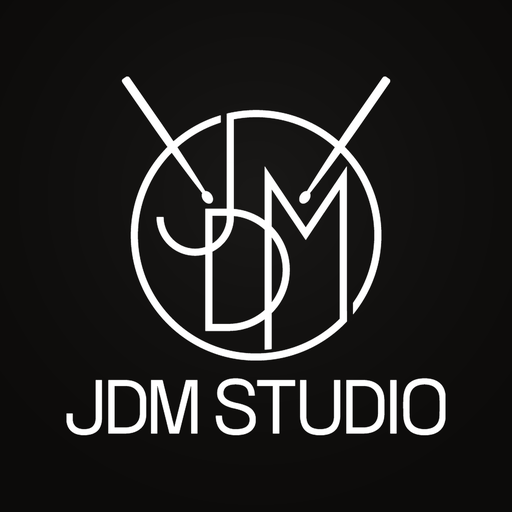
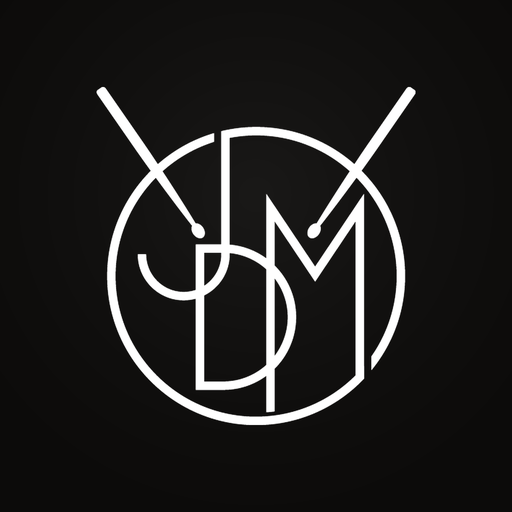
2.53.0: 문양만 있는 로고, 영상 연결 표시, 악보 템포를 처음부터 적용, 맞추기 안내 단순화, 맞추기 중 영상이 위에 보이게
Claude-Session: https://claude.ai/code/session_01UTjdMKt4mmKY2ZrPRwQn6L

Changed region(s): [[0.125, 0.1562, 0.875, 0.875]]

diff --git a/index.html b/index.html
@@ -694,6 +694,14 @@ button{touch-action:manipulation}
 .tf-hit{background:linear-gradient(180deg,#e7bb63,#c8932f);color:#24190a;box-shadow:inset 0 1px 0 rgba(255,255,255,.45)}.tf-hit:active,.tf-hit.hit{filter:brightness(.92)}
 .pgpanel{border-radius:12px}.libitem{border-radius:10px}.libitem:hover{border-color:rgba(217,166,72,.6)}
 .libfolders .fchip.on{color:var(--brass);border-color:rgba(217,166,72,.6);background:var(--brass-soft)}
+/* first screen: only the drawing of the logo */
+body .wbrand2 .lgr,body .wbrand2 .lgw{display:none!important}
+#wYt.linked{border-color:rgba(214,170,84,.55)!important}#wYt.linked small{display:block!important;color:#cbbd9f;font-size:12.5px;margin-top:3px}#wYt.linked small{overflow:hidden;text-overflow:ellipsis;white-space:nowrap;max-width:40vw}#wYt.linked b{color:var(--gold,#d6aa54)}
+@keyframes nextgo{0%,100%{box-shadow:0 0 0 0 rgba(214,170,84,.55)}50%{box-shadow:0 0 0 10px rgba(214,170,84,0)}}
+#wOpen.nextgo{animation:nextgo 1.6s ease-in-out infinite}
+@media (max-width:900px){body:has(#welcome:not([hidden])) #ytBox{visibility:hidden!important;pointer-events:none!important}}
+/* while matching on a phone the video sits on top, where its ad can be skipped */
+@media (max-width:900px){body.pinning #ytBox{position:fixed!important;top:66px!important;right:8px!important;left:auto!important;bottom:auto!important;width:56vw!important;max-width:340px;z-index:70!important;visibility:visible!important;box-shadow:0 10px 30px rgba(0,0,0,.6)}}
 /* back to the first screen */
 .backb{flex:none;display:grid;place-items:center;width:40px;height:40px;margin:0 2px 0 -6px;border:0;border-radius:12px;background:transparent;color:var(--ink,#eee);cursor:pointer}
 .backb:hover{background:rgba(255,255,255,.07)}.backb[hidden]{display:none!important}
@@ -2190,7 +2198,7 @@ function updateTitles(){
   $('srcLine').textContent=`${kind} · ${S.pages.length}쪽 · ${S.measures.length}마디`+(S.scoreBpm?` · ♩=${S.scoreBpm}`:'')+src;
 }
 function paintRange(el){const mn=+el.min||0,mx=+el.max||100;el.style.setProperty('--p',((+el.value-mn)/(mx-mn)*100)+'%')}
-function afterLoad(){
+function afterLoad(){if(S.scoreBpm>0&&!P.synced&&!libOpening)try{setBpm(S.scoreBpm,true)}catch(e){}
   // the cursor enters a line at its first note, not at the clef and time signature in front of it
   if(S.kind!=='xml'&&S.systems&&S.systems.length){const firsts=S.systems.map(q=>S.measures[(q.measures||[])[0]]).filter(Boolean);
     // (the clef takes the same room on every line: where a line's first mark was read further in than that, it was not the first note)
@@ -2909,7 +2917,7 @@ async function loadYouTube(url){
     songKey='y:'+(yt.id||'');applySong();
     yt.justAt=performance.now();
     if(loadSync()){follow.start();if(!desktop)toast('영상을 열었어요 ✓  저장해 둔 맞춤도 불러왔어요',3200)}
-    else if(!desktop&&!(S.tl&&S.tl.length))toast('영상을 열었어요 ✓  이제 악보를 열어 주세요',4000)
+    else if(!(S.tl&&S.tl.length)){toast('영상을 연결했어요 ✓',1800);wYtLinked()}
     else if(window.jdm&&window.jdm.ytRecStart){toast('유튜브를 불러왔어요. 템포와 첫 박을 자동으로 찾을게요.',3000);setTimeout(autoSync,300)}
     else if(!desktop){$('drawer').hidden=true;document.body.classList.remove('mixopen');showSyncAsk('tap')}
     else{openSync();toast('유튜브를 불러왔어요. 첫 박을 탭으로 맞춰 주세요.',3800)}};
@@ -2958,7 +2966,11 @@ function goHome(){dropSong();
   for(const id of ['colL','colR']){const c=$(id);if(c)c.innerHTML=''}try{clearLoop()}catch(e){}
   $('songName').textContent='JDM 악보 플레이어';$('srcLine').textContent='악보를 열어 주세요';
   $('welcome').hidden=false;$('backBtn').hidden=true;clearTimeout(toast._t);$('toast').hidden=true;try{wRecent()}catch(e){}try{updatePagesBtn()}catch(e){}window.scrollTo(0,0)}
-function dropYouTube(){follow.stop();if(M.type==='yt'&&yt.ready){try{yt.player.stopVideo()}catch(e){}}
+/* first screen: the YouTube card shows the linked song, and "악보 열기" is the next thing to press */
+function wYtLinked(){const w=$('wYt');if(!w)return;if(!w.dataset.b){w.dataset.b=w.querySelector('b').textContent;w.dataset.s=w.querySelector('small').textContent}
+  w.classList.add('linked');w.querySelector('b').textContent='✓ 영상 연결됨';w.querySelector('small').textContent=$('ytTitle').textContent||'';$('wOpen').classList.add('nextgo')}
+function wYtReset(){const w=$('wYt');if(!w||!w.dataset.b)return;w.classList.remove('linked');w.querySelector('b').textContent=w.dataset.b;w.querySelector('small').textContent=w.dataset.s;$('wOpen').classList.remove('nextgo')}
+function dropYouTube(){wYtReset();follow.stop();if(M.type==='yt'&&yt.ready){try{yt.player.stopVideo()}catch(e){}}
   if(yt.player instanceof DesktopYT){yt.player.destroy();yt.player=null;yt.ready=false}
   $('ytBox').hidden=true;$('ytBtn').classList.remove('on');if(M.type==='yt')M.type='none'}
 let wl=null;async function wake(on){try{if(on&&'wakeLock'in navigator)wl=await navigator.wakeLock.request('screen');else if(wl){wl.release();wl=null}}catch(e){}}
@@ -3566,9 +3578,10 @@ function pinUI(){if(!pin)return;const n=pin.pts.length,last=n?pin.pts[n-1]:null;
   const bpmNow=pin.tapBpm||S.scoreBpm||0;
   // two separate jobs, named apart: 1 the song's tempo (how fast), 2 the place in the score (where)
   if(pin.tapping){$('pbTap').textContent=pin.taps.length?('두드리기  '+pin.taps.length+' / '+PIN_TAPS):'여기를 두드리기';
-    $('pbK').textContent='1단계 · 곡의 템포 맞추기';$('pbT').textContent='노래 박자에 맞춰 버튼을 8번 두드리세요';$('pbS').textContent='발로 박자 세듯이 일정하게 두드려요. 드럼이 늦게 나오면 아래 줄을 밀어 건너뛰세요.';$('pinBar').hidden=false;return}
-  if(!n){$('pbK').textContent='2단계 · 악보 위치 맞추기'+(bpmNow?'   (템포 ♩='+bpmNow+')':'');t='지금 노래에 나오는 마디를 악보에서 누르세요';u='그 마디가 시작될 때 눌러요. 드럼이 나올 때까지 기다리지 말고 아래 줄을 밀어 건너뛰세요.'}
-  else{$('pbK').textContent='맞춤 완료 · 템포 ♩='+P.bpm;t='악보가 노래를 따라가요';u='노래 뒤쪽에서 지금 나오는 마디를 한 번 더 누르세요. 템포까지 알아서 맞춰져요.'}
+    $('pbK').textContent='템포 두드리기';$('pbT').textContent='노래 박자에 맞춰 버튼을 8번 두드리세요';$('pbS').textContent='발로 박자 세듯이 일정하게 두드려요. 드럼이 늦게 나오면 아래 줄을 밀어 건너뛰세요.';$('pinBar').hidden=false;return}
+  const src=pin.tapBpm&&pin.tapBpm!==S.scoreBpm?'두드린 템포':S.scoreBpm?'악보에 적힌 템포':'템포';
+  if(!n){$('pbK').textContent='마디 누르기'+(bpmNow?' · '+src+' ♩='+bpmNow:'');t='지금 나오는 마디를 악보에서 누르세요';u='광고는 위 영상에서 건너뛰세요. 드럼이 늦게 나오면 아래 줄을 밀어 넘겨요.'}
+  else{$('pbK').textContent='맞췄어요 ✓ · 템포 ♩='+P.bpm;t='악보가 노래를 따라가요';u='1분쯤 뒤에 그때 나오는 마디를 한 번 더 누르면 더 정확해져요. 다 됐으면 완료.'}
   $('pbT').textContent=t;$('pbS').textContent=u;$('pinBar').hidden=false}
 function pinAt(mi){const t=M.time()-0.03,T=S.tl;let ti=-1;
   // (a bar that is played more than once: the pass nearest to where the song is thought to be; at first, the first pass)
@@ -3958,10 +3971,11 @@ document.getElementById('pbDn').onclick=()=>pinNudge(-1);document.getElementById
 document.getElementById('pbRetap').onclick=()=>{if(pin){pin.tapping=true;pin.taps=[];pinUI()}};
 function isPhoneUI(){return matchMedia('(max-width:900px),(orientation:landscape) and (max-height:500px)').matches}
 function openTapCoach(){if(!(S.scoreBpm>0))try{const A=autoTempo();if(A&&A.p)A.p.then(()=>{if(autoT===A&&pin)pinUI()})}catch(e){}
-  openCoach({kick:(yt.justAt&&performance.now()-yt.justAt<2500)?'영상을 열었어요 ✓  이제 악보와 맞춰요':'노래와 악보 맞추기',title:'세 가지만 하면 돼요',go:'시작하기',later:'나중에',
-  steps:[['곡의 템포 맞추기',S.scoreBpm>0?'악보에 적힌 템포 <em>♩='+S.scoreBpm+'</em> 을 써요. 따로 할 건 없어요.':'노래가 얼마나 빠른지 알려 줘요.<br>노래 박자에 맞춰 버튼을 <em>8번 두드려요</em>.'],
-    ['악보 위치 맞추기','노래가 악보의 어디쯤인지 알려 줘요.<br>지금 노래에 나오는 마디를 <em>악보에서 눌러요</em>.'],
-    ['뒤쪽에서 한 번 더','1분쯤 뒤에 지금 나오는 마디를 <em>한 번 더 눌러요</em>.<br>템포가 틀렸으면 알아서 고쳐져요.']],
+  const sb=S.scoreBpm>0;
+  openCoach({kick:'노래와 악보 맞추기',title:sb?'두 가지만 하면 돼요':'세 가지만 하면 돼요',go:'시작하기',later:'나중에',
+  steps:(sb?[]:[['템포 두드리기','노래 박자에 맞춰 버튼을 <em>8번 두드려요</em>.']]).concat([
+    ['마디 누르기',(sb?'템포는 악보 맨 위에 적힌 <em>♩='+S.scoreBpm+'</em> 으로 맞춰 놨어요.<br>':'')+'노래를 듣다가, 지금 나오는 마디를 <em>악보에서 눌러요</em>.'],
+    ['1분 뒤 한 번 더','조금 뒤에 그때 나오는 마디를 <em>한 번 더 눌러요</em>.<br>밀린 게 있으면 알아서 맞춰져요.']]),
   onGo:()=>pinStart(),onLater:()=>{}})}
 window.addEventListener('hashchange',()=>{if(shareTake())shareAsk()});
 window.addEventListener('load',()=>setTimeout(()=>{try{const lo=document.getElementById('licOv');if(shareTake()&&(!lo||lo.hidden)){shareAsk();return}if(isPhoneUI()&&!store.get('guideSeen',0)&&!S.pages.length&&(!lo||lo.hidden))openGuide()}catch(e){}},900));
@@ -4008,7 +4022,7 @@ window.addEventListener('load',()=>setTimeout(()=>{try{const lo=document.getElem
 <script>
 /* ===== app behaviour (installed on a phone / from the store) ===== */
 (function(){const $=id=>document.getElementById(id);
-  const APP_VER='2.52.0';{const v=$('appVer');if(v)v.textContent='v'+APP_VER}
+  const APP_VER='2.53.0';{const v=$('appVer');if(v)v.textContent='v'+APP_VER}
   // ---- Android back button: closes what is open (menu, settings, search...) instead of leaving the app
   const OV=[['moreSheet',()=>$('msClose').click()],['ytSearch',()=>closeSearch()],['syncPop',()=>$('spClose').click()],['tapFix',()=>$('tfCancel').click()],
     ['libOv',()=>{const b=document.querySelector('#libOv .sp-x,#libOv [data-close],#libClose');b?b.click():($('libOv').hidden=true)}],

diff --git a/sw.js b/sw.js
@@ -1,5 +1,5 @@
 /* JDM 악보 플레이어 — offline cache. A new version waits until the app says "업데이트". */
-const CACHE='jdm-2.52.0-ffd5850e20';
+const CACHE='jdm-2.53.0-de7e0d5c20';
 const FILES=["./", "index.html", "analyze.js", "tempo.js", "manifest.webmanifest", "icon-192.png", "icon-512.png", "icon-maskable.png", "privacy.html", "licenses.html", "vendor/pdf.min.js", "vendor/opensheetmusicdisplay.min.js", "vendor/pdf.worker.min.js", "vendor/img/logo96.png", "vendor/img/hero.jpg", "vendor/fonts/cormorant-garamond-latin-600-normal.woff2", "vendor/fonts/ibm-plex-mono-latin-600-normal.woff2", "vendor/fonts/cormorant-garamond-latin-600-italic.woff2", "vendor/fonts/ibm-plex-mono-latin-500-normal.woff2", "vendor/fonts/cormorant-garamond-latin-500-normal.woff2", "vendor/fonts/PretendardVariable.woff2", "vendor/fonts/cormorant-garamond-latin-500-italic.woff2", "vendor/fonts/serifkr/noto-serif-kr-76-600-normal.woff2", "vendor/fonts/serifkr/noto-serif-kr-108-600-normal.woff2", "vendor/fonts/serifkr/noto-serif-kr-korean-600-normal.woff2", "vendor/fonts/serifkr/noto-serif-kr-30-600-normal.woff2", "vendor/fonts/serifkr/noto-serif-kr-98-600-normal.woff2", "vendor/fonts/serifkr/noto-serif-kr-0-600-normal.woff2", "vendor/fonts/serifkr/noto-serif-kr-vietnamese-600-normal.woff2", "vendor/fonts/serifkr/noto-serif-kr-53-600-normal.woff2", "vendor/fonts/serifkr/noto-serif-kr-110-600-normal.woff2", "vendor/fonts/serifkr/noto-serif-kr-46-600-normal.woff2", "vendor/fonts/serifkr/noto-serif-kr-1-600-normal.woff2", "vendor/fonts/serifkr/noto-serif-kr-70-600-normal.woff2", "vendor/fonts/serifkr/noto-serif-kr-104-600-normal.woff2", "vendor/fonts/serifkr/noto-serif-kr-20-600-normal.woff2", "vendor/fonts/serifkr/noto-serif-kr-67-600-normal.woff2", "vendor/fonts/serifkr/noto-serif-kr-77-600-normal.woff2", "vendor/fonts/serifkr/noto-serif-kr-7-600-normal.woff2", "vendor/fonts/serifkr/noto-serif-kr-79-600-normal.woff2", "vendor/fonts/serifkr/noto-serif-kr-61-600-normal.woff2", "vendor/fonts/serifkr/noto-serif-kr-91-600-normal.woff2", "vendor/fonts/serifkr/noto-serif-kr-73-600-normal.woff2", "vendor/fonts/serifkr/noto-serif-kr-99-600-normal.woff2", "vendor/fonts/serifkr/noto-serif-kr-4-600-normal.woff2", "vendor/fonts/serifkr/noto-serif-kr-97-600-normal.woff2", "vendor/fonts/serifkr/noto-serif-kr-87-600-normal.woff2", "vendor/fonts/serifkr/noto-serif-kr-11-600-normal.woff2", "vendor/fonts/serifkr/noto-serif-kr-60-600-normal.woff2", "vendor/fonts/serifkr/noto-serif-kr-35-600-normal.woff2", "vendor/fonts/serifkr/noto-serif-kr-82-600-normal.woff2", "vendor/fonts/serifkr/noto-serif-kr-6-600-normal.woff2", "vendor/fonts/serifkr/noto-serif-kr-112-600-normal.woff2", "vendor/fonts/serifkr/noto-serif-kr-80-600-normal.woff2", "vendor/fonts/serifkr/noto-serif-kr-93-600-normal.woff2", "vendor/fonts/serifkr/noto-serif-kr-14-600-normal.woff2", "vendor/fonts/serifkr/noto-serif-kr-19-600-normal.woff2", "vendor/fonts/serifkr/noto-serif-kr-47-600-normal.woff2", "vendor/fonts/serifkr/noto-serif-kr-92-600-normal.woff2", "vendor/fonts/serifkr/noto-serif-kr-45-600-normal.woff2", "vendor/fonts/serifkr/noto-serif-kr-cyrillic-600-normal.woff2", "vendor/fonts/serifkr/noto-serif-kr-88-600-normal.woff2", "vendor/fonts/serifkr/noto-serif-kr-49-600-normal.woff2", "vendor/fonts/serifkr/noto-serif-kr-65-600-normal.woff2", "vendor/fonts/serifkr/noto-serif-kr-29-600-normal.woff2", "vendor/fonts/serifkr/noto-serif-kr-9-600-normal.woff2", "vendor/fonts/serifkr/noto-serif-kr-116-600-normal.woff2", "vendor/fonts/serifkr/noto-serif-kr-32-600-normal.woff2", "vendor/fonts/serifkr/noto-serif-kr-86-600-normal.woff2", "vendor/fonts/serifkr/noto-serif-kr-115-600-normal.woff2", "vendor/fonts/serifkr/noto-serif-kr-33-600-normal.woff2", "vendor/fonts/serifkr/noto-serif-kr-64-600-normal.woff2", "vendor/fonts/serifkr/noto-serif-kr-78-600-normal.woff2", "vendor/fonts/serifkr/noto-serif-kr-95-600-normal.woff2", "vendor/fonts/serifkr/noto-serif-kr-63-600-normal.woff2", "vendor/fonts/serifkr/noto-serif-kr-84-600-normal.woff2", "vendor/fonts/serifkr/noto-serif-kr-59-600-normal.woff2", "vendor/fonts/serifkr/noto-serif-kr-85-600-normal.woff2", "vendor/fonts/serifkr/noto-serif-kr-81-600-normal.woff2", "vendor/fonts/serifkr/noto-serif-kr-111-600-normal.woff2", "vendor/fonts/serifkr/noto-serif-kr-39-600-normal.woff2", "vendor/fonts/serifkr/noto-serif-kr-10-600-normal.woff2", "vendor/fonts/serifkr/noto-serif-kr-74-600-normal.woff2", "vendor/fonts/serifkr/noto-serif-kr-21-600-normal.woff2", "vendor/fonts/serifkr/noto-serif-kr-119-600-normal.woff2", "vendor/fonts/serifkr/noto-serif-kr-16-600-normal.woff2", "vendor/fonts/serifkr/noto-serif-kr-8-600-normal.woff2", "vendor/fonts/serifkr/noto-serif-kr-118-600-normal.woff2", "vendor/fonts/serifkr/noto-serif-kr-41-600-normal.woff2", "vendor/fonts/serifkr/noto-serif-kr-55-600-normal.woff2", "vendor/fonts/serifkr/noto-serif-kr-103-600-normal.woff2", "vendor/fonts/serifkr/noto-serif-kr-101-600-normal.woff2", "vendor/fonts/serifkr/noto-serif-kr-17-600-normal.woff2", "vendor/fonts/serifkr/noto-serif-kr-18-600-normal.woff2", "vendor/fonts/serifkr/noto-serif-kr-36-600-normal.woff2", "vendor/fonts/serifkr/noto-serif-kr-75-600-normal.woff2", "vendor/fonts/serifkr/noto-serif-kr-51-600-normal.woff2", "vendor/fonts/serifkr/noto-serif-kr-28-600-normal.woff2", "vendor/fonts/serifkr/noto-serif-kr-43-600-normal.woff2", "vendor/fonts/serifkr/noto-serif-kr-89-600-normal.woff2", "vendor/fonts/serifkr/noto-serif-kr-40-600-normal.woff2", "vendor/fonts/serifkr/noto-serif-kr-44-600-normal.woff2", "vendor/fonts/serifkr/noto-serif-kr-12-600-normal.woff2", "vendor/fonts/serifkr/noto-serif-kr-57-600-normal.woff2", "vendor/fonts/serifkr/noto-serif-kr-102-600-normal.woff2", "vendor/fonts/serifkr/noto-serif-kr-38-600-normal.woff2", "vendor/fonts/serifkr/noto-serif-kr-31-600-normal.woff2", "vendor/fonts/serifkr/noto-serif-kr-114-600-normal.woff2", "vendor/fonts/serifkr/noto-serif-kr-22-600-normal.woff2", "vendor/fonts/serifkr/noto-serif-kr-90-600-normal.woff2", "vendor/fonts/serifkr/noto-serif-kr-3-600-normal.woff2", "vendor/fonts/serifkr/noto-serif-kr-26-600-normal.woff2", "vendor/fonts/serifkr/noto-serif-kr-58-600-normal.woff2", "vendor/fonts/serifkr/noto-serif-kr-94-600-normal.woff2", "vendor/fonts/serifkr/noto-serif-kr-23-600-normal.woff2", "vendor/fonts/serifkr/noto-serif-kr-117-600-normal.woff2", "vendor/fonts/serifkr/noto-serif-kr-105-600-normal.woff2", "vendor/fonts/serifkr/noto-serif-kr-15-600-normal.woff2", "vendor/fonts/serifkr/noto-serif-kr-50-600-normal.woff2", "vendor/fonts/serifkr/noto-serif-kr-109-600-normal.woff2", "vendor/fonts/serifkr/noto-serif-kr-83-600-normal.woff2", "vendor/fonts/serifkr/noto-serif-kr-27-600-normal.woff2", "vendor/fonts/serifkr/noto-serif-kr-2-600-normal.woff2", "vendor/fonts/serifkr/noto-serif-kr-71-600-normal.woff2", "vendor/fonts/serifkr/noto-serif-kr-52-600-normal.woff2", "vendor/fonts/serifkr/noto-serif-kr-13-600-normal.woff2", "vendor/fonts/serifkr/noto-serif-kr-113-600-normal.woff2", "vendor/fonts/serifkr/noto-serif-kr-56-600-normal.woff2", "vendor/fonts/serifkr/noto-serif-kr-37-600-normal.woff2", "vendor/fonts/serifkr/noto-serif-kr-latin-600-normal.woff2", "vendor/fonts/serifkr/noto-serif-kr-54-600-normal.woff2", "vendor/fonts/serifkr/noto-serif-kr-100-600-normal.woff2", "vendor/fonts/serifkr/noto-serif-kr-24-600-normal.woff2", "vendor/fonts/serifkr/noto-serif-kr-25-600-normal.woff2", "vendor/fonts/serifkr/noto-serif-kr-62-600-normal.woff2", "vendor/fonts/serifkr/noto-serif-kr-48-600-normal.woff2", "vendor/fonts/serifkr/noto-serif-kr-42-600-normal.woff2", "vendor/fonts/serifkr/noto-serif-kr-5-600-normal.woff2", "vendor/fonts/serifkr/noto-serif-kr-66-600-normal.woff2", "vendor/fonts/serifkr/noto-serif-kr-69-600-normal.woff2", "vendor/fonts/serifkr/noto-serif-kr-34-600-normal.woff2", "vendor/fonts/serifkr/noto-serif-kr-107-600-normal.woff2", "vendor/fonts/serifkr/noto-serif-kr-106-600-normal.woff2", "vendor/fonts/serifkr/noto-serif-kr-68-600-normal.woff2", "vendor/fonts/serifkr/noto-serif-kr-96-600-normal.woff2", "vendor/fonts/serifkr/noto-serif-kr-72-600-normal.woff2", "vendor/fonts/serifkr/noto-serif-kr-latin-ext-600-normal.woff2"];
 self.addEventListener('install',e=>{e.waitUntil(caches.open(CACHE).then(c=>c.addAll(FILES)))});
 self.addEventListener('activate',e=>{e.waitUntil(caches.keys().then(ks=>Promise.all(ks.filter(k=>k!==CACHE).map(k=>caches.delete(k)))).then(()=>self.clients.claim()))});
